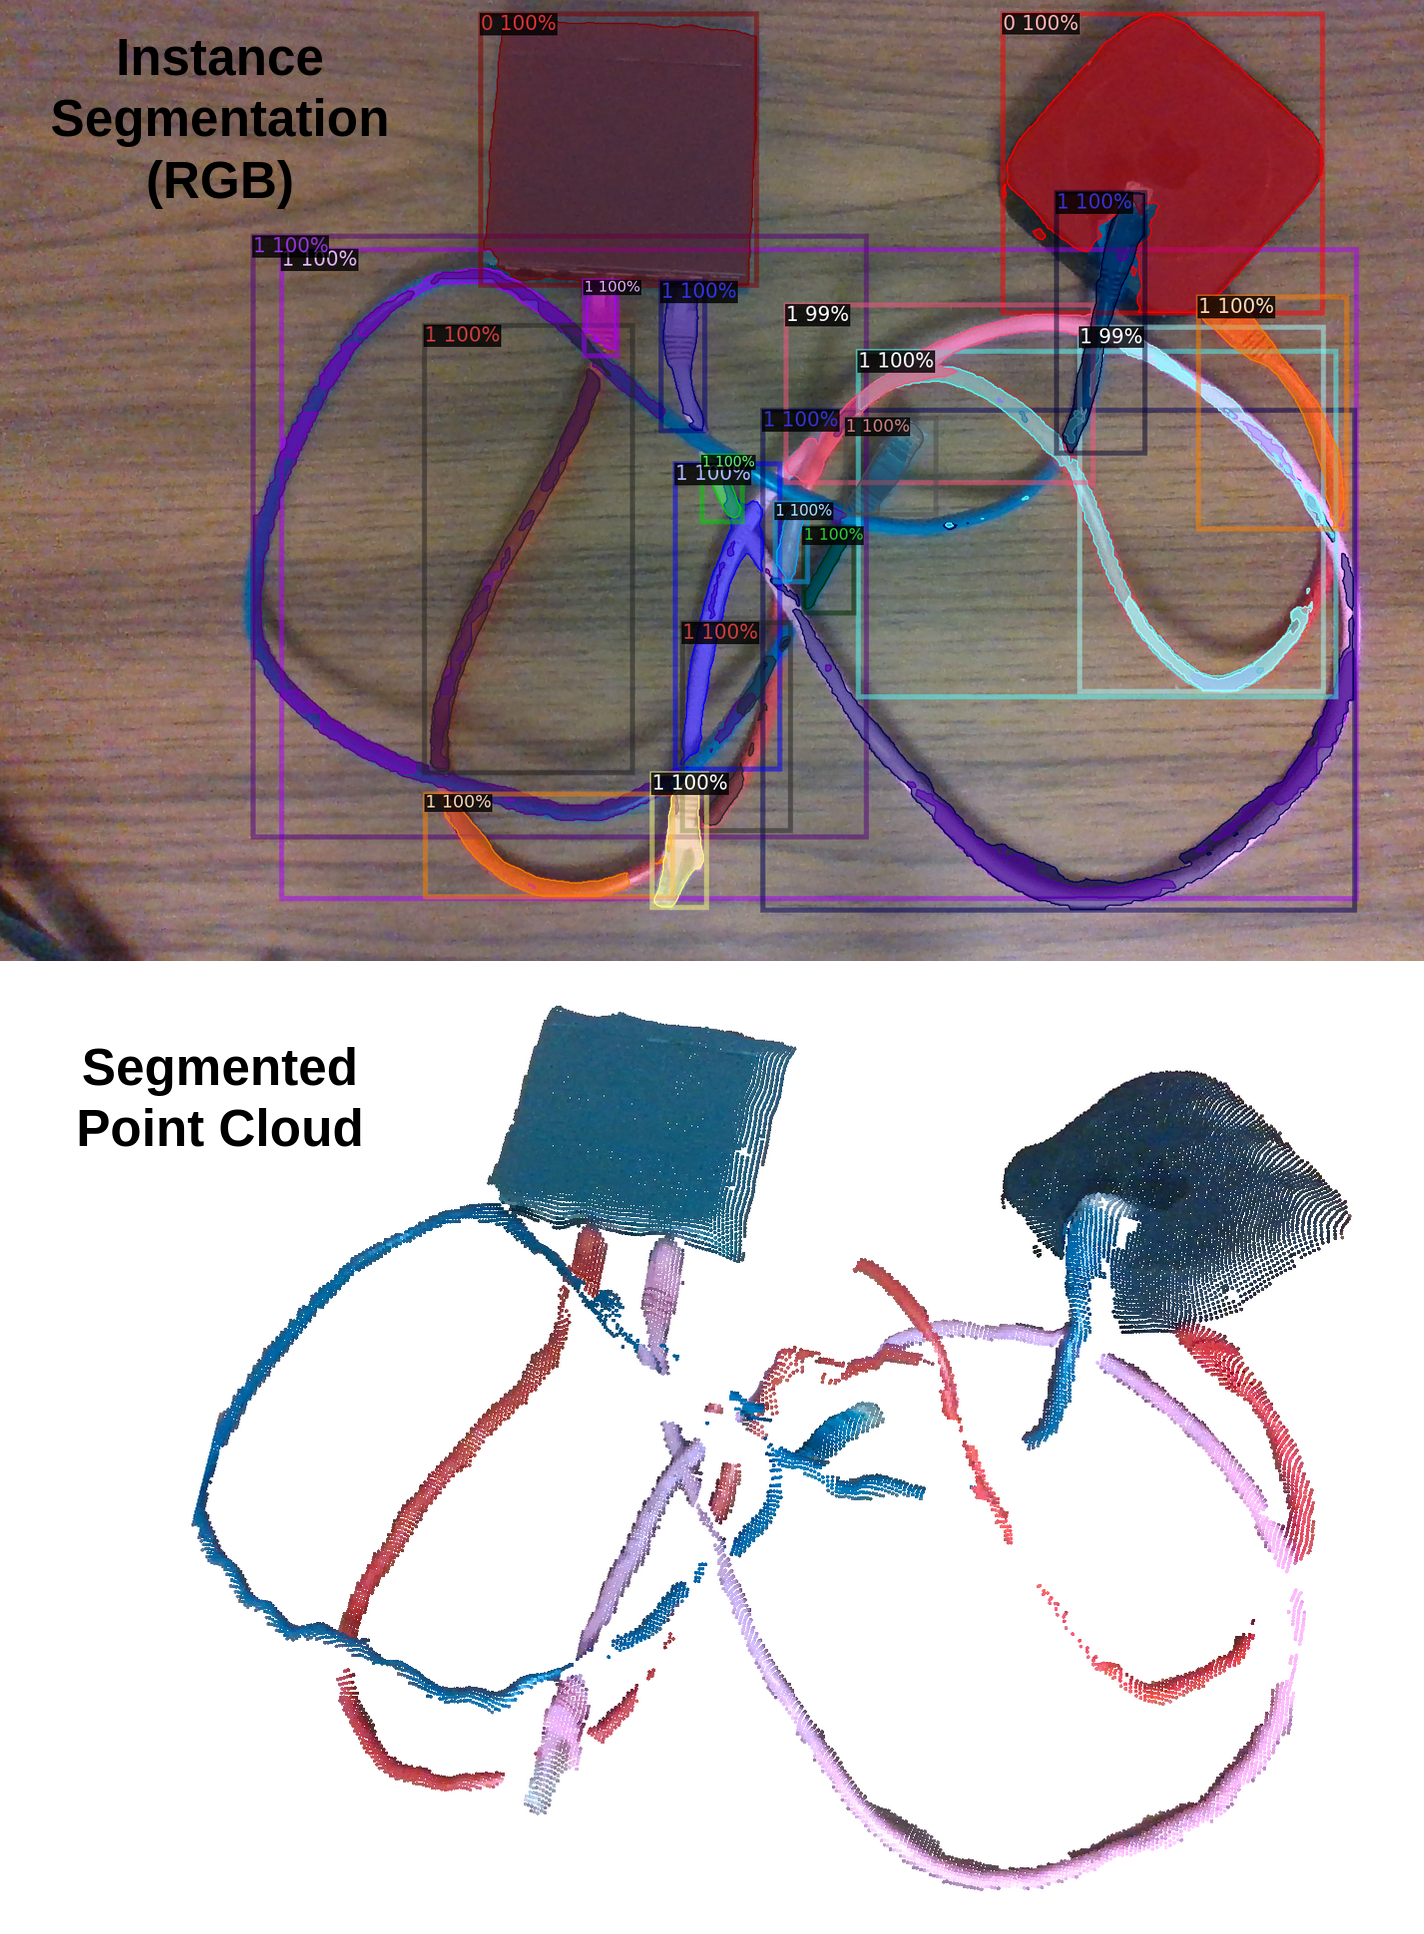
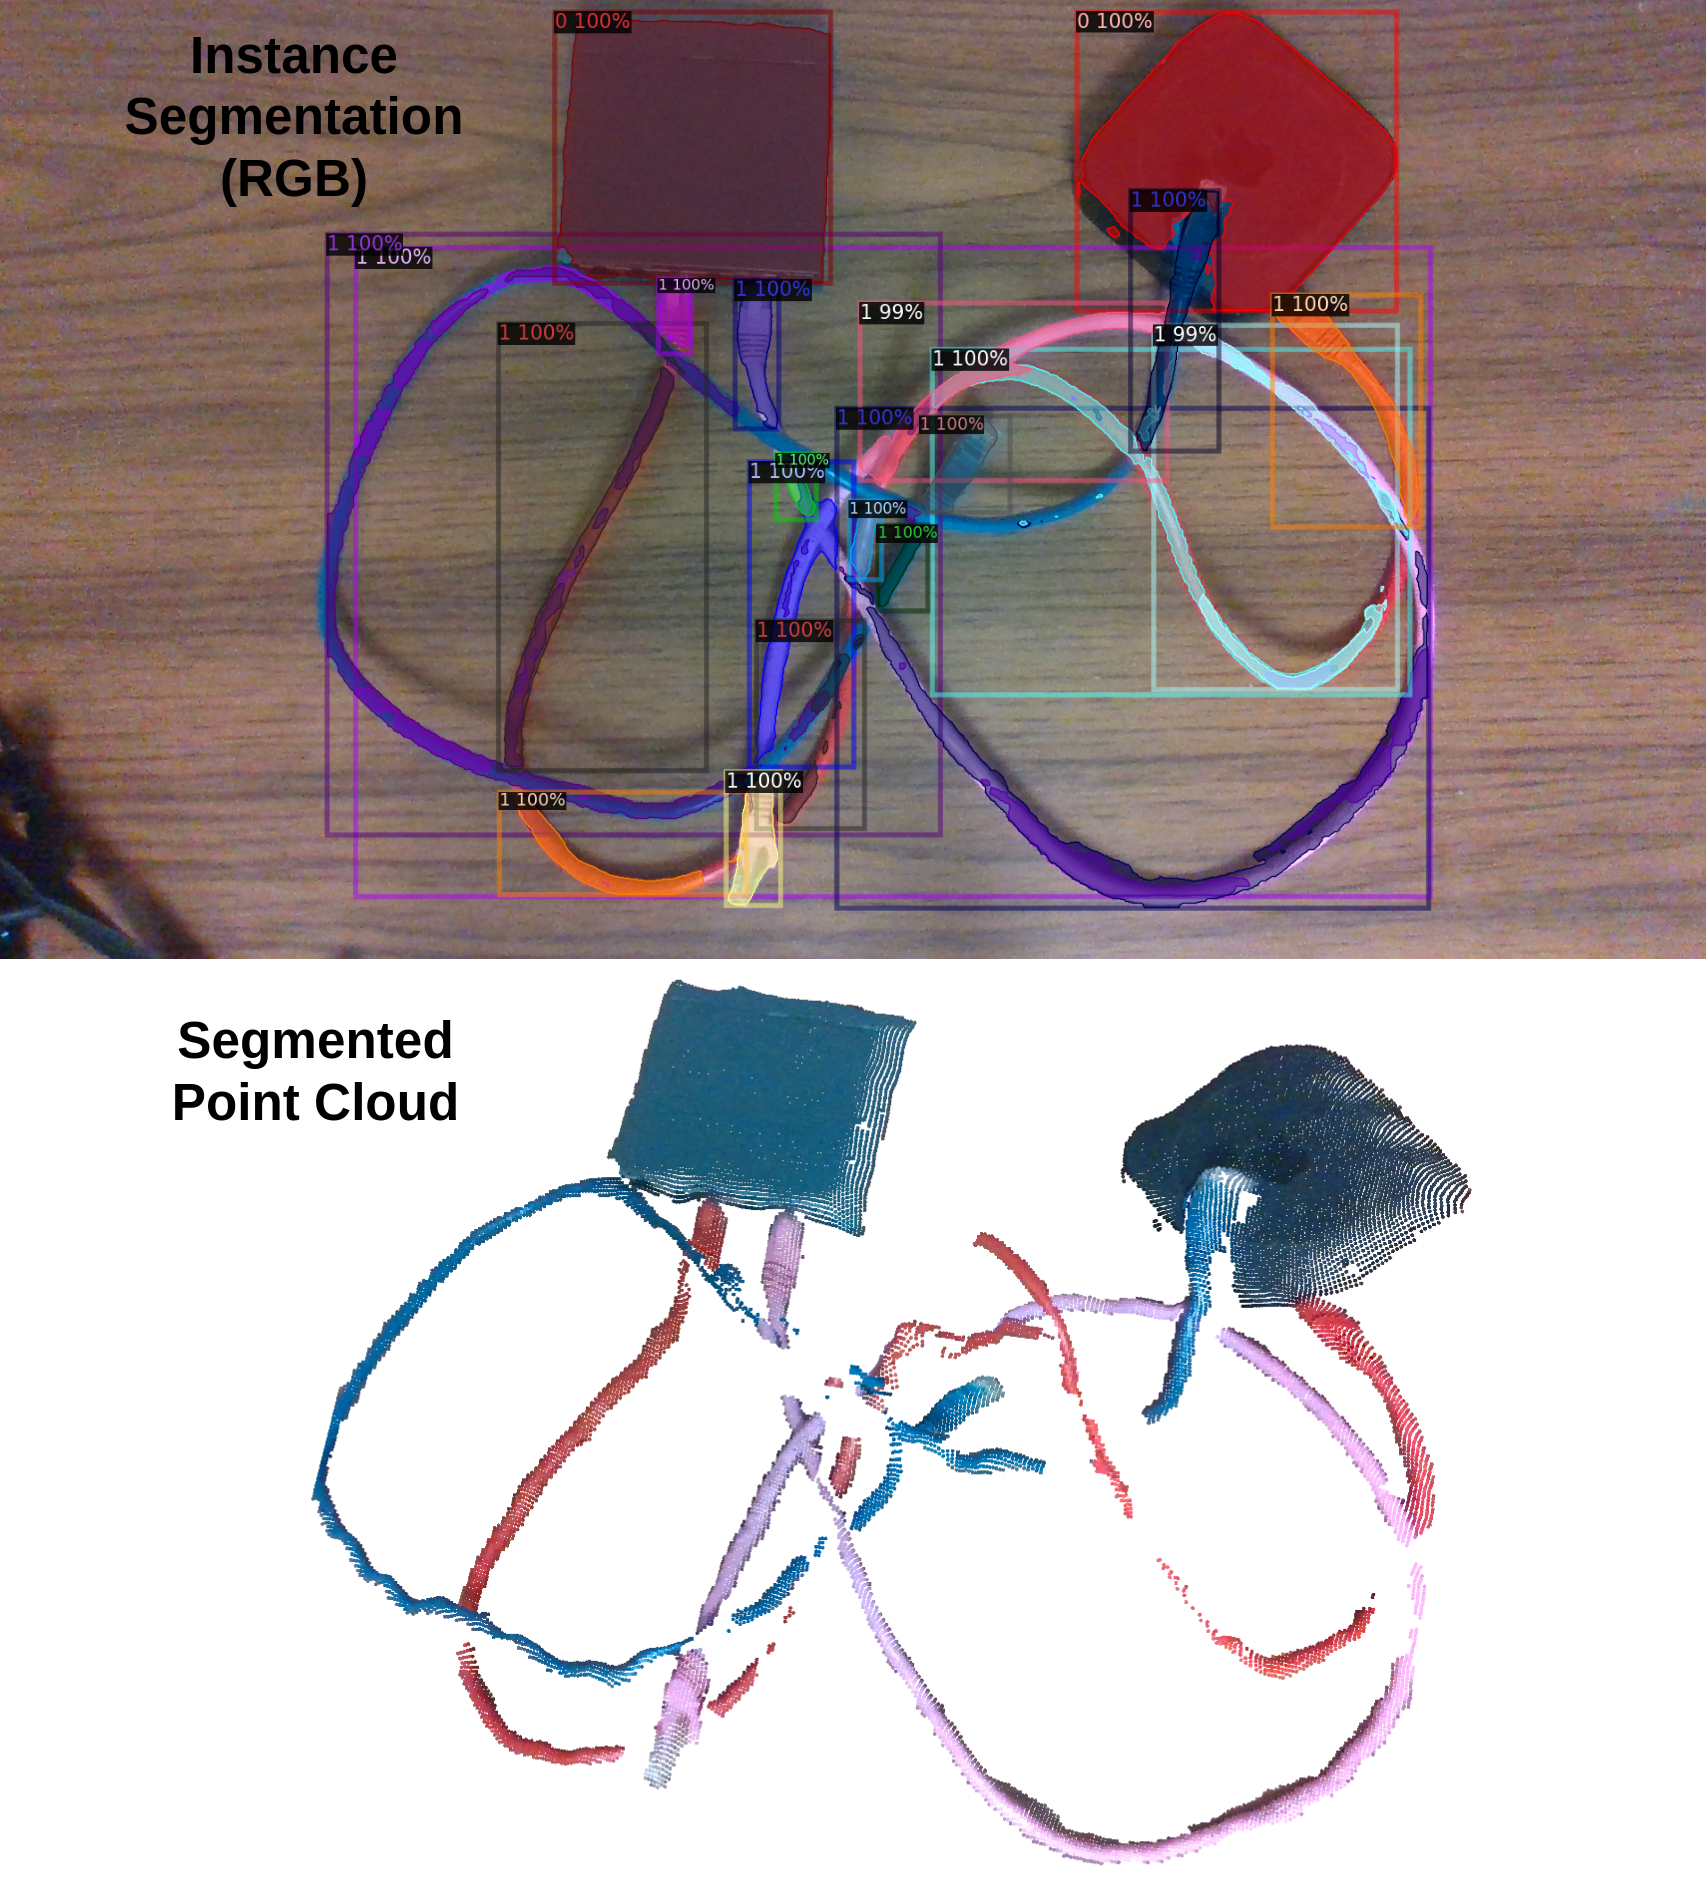
updated the research page

diff --git a/_pages/research.md b/_pages/research.md
@@ -7,41 +7,13 @@ nav: true
 nav_order: 4
 ---
 
-See below for my research experiences.
-
-##### **Undergraduate Research Apprenticeship Program (Spring 2022)**
----
-* Selected as one of the 60 participants from a pool of more than 500 applicants to work with a graduate student mentor on research projects.
-* Implemented the Copy-Paste Augmentation method in an automated dataset generation process to scale the amount of available training data and to eliminate the time-consuming process of manual image annotation.
-* Identified, implemented, and evaluated two state-of-the-art deformable linear object instance segmentation algorithms.
-* Used the instance segmentation masks output from Mask R-CNN to segment featureless point clouds in stereo depth imagery.
-* Presented a [poster](https://jingyi-xiang.github.io/assets/pdf/poster_urs22.pdf) at the 2022 UIUC Undergraduate Research Symposium.
-
-##### <u>Highlights
-<p align="center">
-    <img src="../assets/img/segmentation_rgb_pc.png" height="360" /> <img src="../assets/img/poster_urs22.png" height="360" />
-</p>
-From left to right, top to bottom:
-1. The RGB cable instance segmentation result and the corresponding segmented point cloud produced by a trained Mask R-CNN model.
-2. My poster presented at the 2022 Undergraduate Research Symposium.
+See below for my research experiences listed in reverse chronological order.
 
 &nbsp;
 
-##### **Illinois Space Grant Consortium's Undergraduate Research Opportunity Program (Summer 2022)**
+##### **Senior Thesis (Fall 2023 - Spring 2024)**
 ---
-* Selected to participate in a paid 10-week summer research program.
-* Designed and 3D printed custom camera mounts for linking the camera and the robot end-effector.
-* Calibrated our hardware system with fiducial markers and two eye-in-hand camera calibration algorithms: the Tsai-Lenz algorithm and a recently published method based on pose graph optimization.
-* Basing off of point set registration algorithm [Global-Local Toplogy Preservation](https://www.cv-foundation.org/openaccess/content_cvpr_workshops_2014/W04/papers/Ge_Non-rigid_Point_Set_2014_CVPR_paper.pdf), developed a new method for tracking multiple deformable linear objects simultaneously without contiuous instance segmentation.
-* Delivered a 15-minute presentation at the program symposium.
-
-##### <u>Highlights
-<p align="center">
-    <img src="../assets/img/wire_stacked_pc.png" height="280" /> <img src="../assets/img/gmm_cpd.png" height="280" />
-</p>
-From left to right, top to bottom:
-1. The point cloud of an ethernet cable produced by stitching together several point clouds taken from different perspectives.
-2. I implemented Gaussian Mixture Model (GMM) clustering and Coherent Point Drift (CPD) from scratch and compared their performance for point set registration under occlusion.
+* In progress :)
 
 &nbsp;
 
@@ -57,19 +29,58 @@ From left to right, top to bottom:
 
 ##### <u>Highlights
 <p align="center">
-    <img src="../assets/img/dlo.jpg" height="280" /> <img src="../assets/img/multidlo_result.png" height="280" />
+    <img src="../assets/img/dlo.jpg" height="170" /> <img src="../assets/img/multidlo_result.png" height="170" />
 </p>
 <p align="center">
-    <img src="../assets/img/multi_dlo_poster.png" height="279" /> <img src="../assets/img/poster_urs23.png" height="279" />
+    <img src="../assets/img/multi_dlo_poster.png" height="278" /> <img src="../assets/img/poster_urs23.png" height="278" />
 </p>
 From left to right, top to bottom:
-1. We ran the TrackDLO algorithm on a rope posed to resemble the word "DLO" (**D**eformable **L**inear **O**bject).
+1. We ran our TrackDLO algorithm on a rope posed to resemble the word "DLO" (**D**eformable **L**inear **O**bject).
 2. Our [multi-dlo package](https://github.com/RMDLO/multi-dlo) successfully tracks three identical blue ropes twisted together.
 3. Our poster presented at the ICRA 2023 Workshop on Representing and Manipulating Deformable Objects.
-4. My poster presented at the 2023 Undergraduate Research Symposium.
+4. My poster presented at the 2023 UIUC Undergraduate Research Symposium.
 
 &nbsp;
 
-##### **Senior Thesis (Fall 2023 - Spring 2024)**
+##### **Illinois Space Grant Consortium's Undergraduate Research Opportunity Program (Summer 2022)**
 ---
-* In progress :)
+* Selected to participate in a paid 10-week summer research program with the Bretl Research Group.
+* Designed and 3D printed custom camera mounts for linking the camera and the robot end-effector.
+* Calibrated our hardware system with fiducial markers and two eye-in-hand camera calibration algorithms: the Tsai-Lenz algorithm and a recently published method based on pose graph optimization.
+* Basing off of point set registration algorithm [Global-Local Toplogy Preservation](https://www.cv-foundation.org/openaccess/content_cvpr_workshops_2014/W04/papers/Ge_Non-rigid_Point_Set_2014_CVPR_paper.pdf), developed a new method for tracking multiple deformable linear objects simultaneously without contiuous instance segmentation.
+* Delivered a 15-minute presentation at the program symposium.
+
+##### <u>Highlights
+<p align="center">
+    <img src="../assets/img/wire_stacked_pc.png" height="280" /> <img src="../assets/img/gmm_cpd.png" height="280" />
+</p>
+From left to right, top to bottom:
+1. The point cloud of an ethernet cable produced by stitching together several point clouds taken from different perspectives.
+2. I implemented Gaussian Mixture Model (GMM) clustering and Coherent Point Drift (CPD) from scratch and compared their performance for point set registration under occlusion.
+
+&nbsp;
+
+##### **Undergraduate Research Apprenticeship Program (Spring 2022)**
+---
+* Selected as one of the 60 participants from a pool of more than 500 applicants to work with a graduate student mentor on research projects.
+* Implemented the Copy-Paste Augmentation method in an automated dataset generation process to scale the amount of available training data and to eliminate the time-consuming process of manual image annotation.
+* Identified, implemented, and evaluated two state-of-the-art deformable linear object instance segmentation algorithms.
+* Used the instance segmentation masks output from Mask R-CNN to segment featureless point clouds in stereo depth imagery.
+* Presented a [poster](https://jingyi-xiang.github.io/assets/pdf/poster_urs22.pdf) at the 2022 UIUC Undergraduate Research Symposium.
+
+##### <u>Highlights
+<p align="center">
+    <img src="../assets/img/segmentation_rgb_pc.png" height="300" /> <img src="../assets/img/poster_urs22.png" height="300" />
+</p>
+From left to right, top to bottom:
+1. The RGB cable instance segmentation result and the corresponding segmented point cloud produced by a trained Mask R-CNN model.
+2. My poster presented at the 2022 UIUC Undergraduate Research Symposium.
+
+&nbsp;
+
+##### **Bonus**
+---
+Here is a quick sketch I did when taking a break from research.
+<p align="left">
+    <img src="../assets/img/sketch.jpg" height="300" />
+</p>

diff --git a/_pages/misc.md b/_pages/misc.md
@@ -9,6 +9,8 @@ nav_order: 6
 
 Here are some of the competition robots designed, built, and programmed by me.
 
+&nbsp;
+
 ---
 **Game Objective:** Picking up and stacking plastic cubes. \\
 **Robot Videos:** [Playlist](https://www.youtube.com/watch?v=2yH0XbTgVOY&list=PLOVSIsYOyOF3BGpvA9BS9q3m-NSgKIeYY&index=1)
